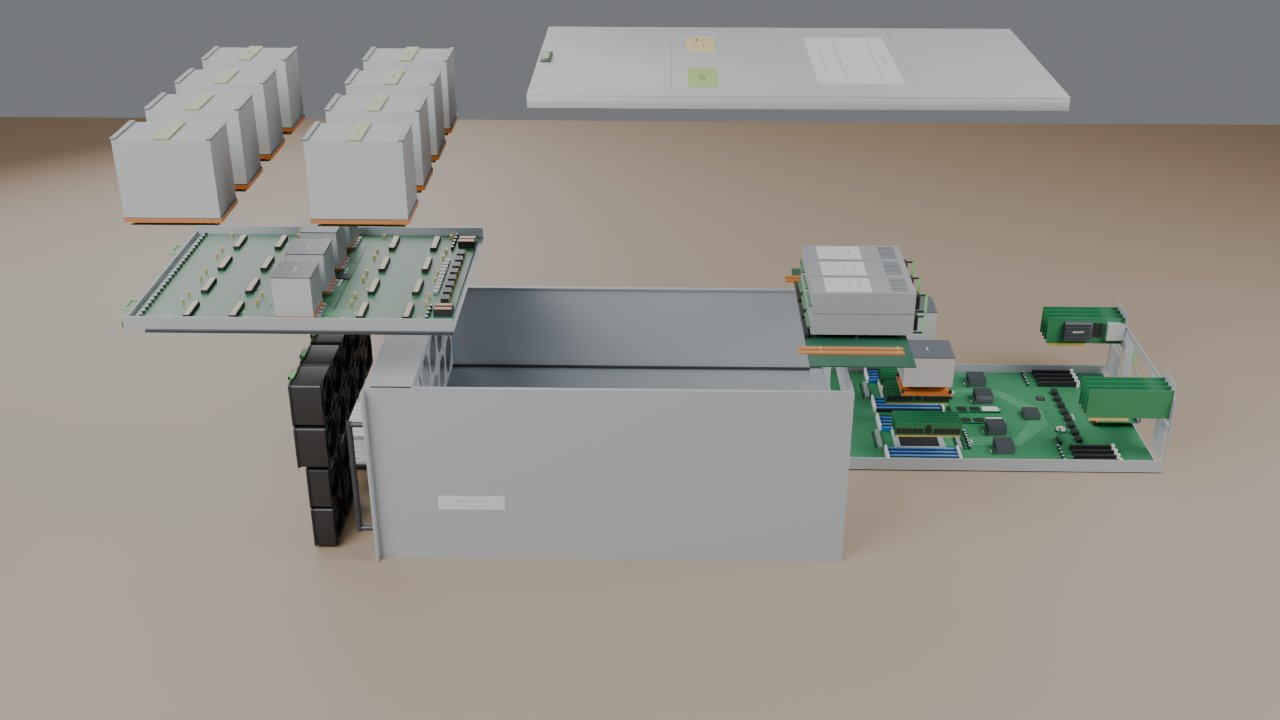
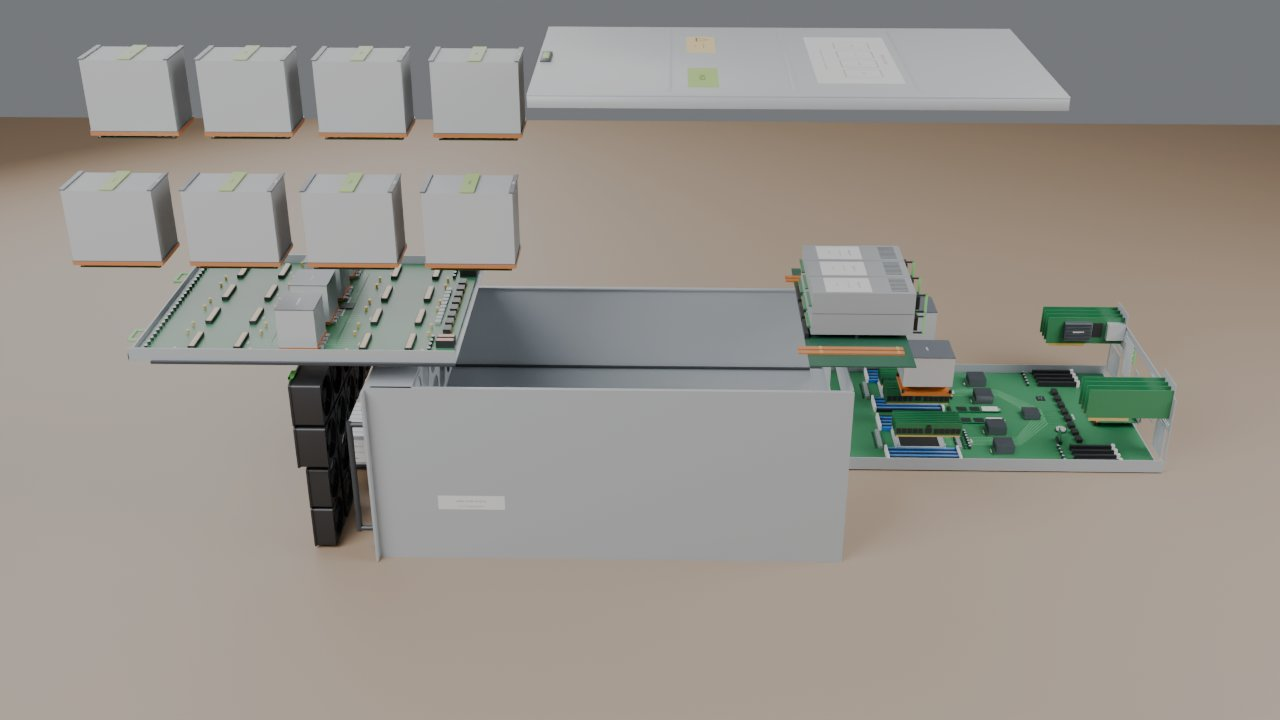
AI server: two-tier GPU display in the README, config text, previews
The re-import audit showed the 8 GPUs as two stacks: their rows of 4 ran
along the player's line of sight. The Blender script (ITBasics #5) now
lays them out as two tiers of 4 across; assets are re-imported next.

Claude-Session: https://claude.ai/code/session_01PHKpeRwAmyHtEZUkLXnPTV

Changed region(s): [[0.0312, 0.0611, 0.4375, 0.55]]

diff --git a/Tools/import_model.py b/Tools/import_model.py
@@ -135,7 +135,7 @@ MODELS = {
         info=dict(
             title='AI 训练服务器 · 8U 八卡 HGX H100 平台（按公开图片原创简化）',
             body='8 × H100 SXM5 · 4 × NVSwitch · 双路 56 核 CPU · 2 TB DDR5 · 8 × 400G 网卡 · 6 × 3000 W 电源（满载约 10 kW）\n'
-                 '装配状态：抓任意位置拿起整台机器看。点 EXPLODE 拆开：GPU 托盘往左上抽出、8 块 GPU 再往上提并分开，主板托盘往右抽出。'
+                 '装配状态：抓任意位置拿起整台机器看。点 EXPLODE 拆开：GPU 托盘往左上抽出、8 块 GPU 再往上提排成前后两层，主板托盘往右抽出。'
                  '按部件拆（一块 GPU、一颗 CPU、一排内存…），每个部件都能单独抓。',
         ),
         named={},
@@ -148,7 +148,7 @@ MODELS = {
         # 实物 8U 机箱深约 85cm，桌上展示 55cm（约 0.6 倍）；拆开后左右各伸出约 60~70cm，在桌子长边范围内
         length_cm=55.0,
         # glb 已经在 Blender 里按部件合并成 24 个节点（每块 GPU、每颗 CPU、每排内存各一个），一个节点一个抓取单元。
-        # 爆炸路线写在 Blender 脚本里：GPU 托盘往前抽 50cm、8 块 GPU 再上提 20cm 并分开；主板托盘往后抽 69cm 再往远处让 32cm（模型单位，未缩放）
+        # 爆炸路线写在 Blender 脚本里：GPU 托盘抬 22cm 往前抽 50cm、8 块 GPU 再上提排成两层（每层 4 块沿长度方向排开）；主板托盘往后抽 69cm 再往远处让 32cm（模型单位，未缩放）
         # 模型 +Y 是前面板（Blender 的 -Y）：风扇在前上方，电源在后上方，硬盘在前下方靠 -X
         check={'P03_GpuFanWall': (0, 1, 1), 'P07_PSUs': (0, -1, 1), 'P05_Drives': (-1, 1, 0)},
     ),

diff --git a/README.md b/README.md
@@ -206,10 +206,10 @@ ITBasics/AI服务器爆炸图/build_ai_server.py ──Blender──▶ ai_serve
 
 - **模型**：8U 风冷 AI 训练服务器（8 卡 HGX H100 平台，按 DGX / HGX 的公开图片原创简化）。Blender 里先按细零件建（180 个：芯片、HBM、供电、散热器……），导出前按"一块 GPU"这一级合并成 **24 个部件**：机箱（含前控制面板，基座）、顶盖、GPU 区风扇墙（10 个风扇）、CPU 区风扇（4 个）、NVMe 硬盘组（8 块 + 背板）、电源组（6 个 + 配电板）、GPU 托盘（HGX 基板 + 4 颗 NVSwitch）、**8 块 GPU 模组**（每块含 SXM5 载板、GPU 芯片、6 颗 HBM3、供电、散热器）、主板托盘（主板 + PCIe 交换芯片、PCH、BMC 等小芯片 + OCP 网卡 + M.2）、2 颗 CPU（连散热器）、4 排 DDR5（每排 8 根）、2 组 400G 网卡（每组 4 张）。细零件的几何还在（拿起一块 GPU 翻过来能看到芯片和 HBM），只是不再单独拆。信息牌讲每个部件在整台机器里干什么，原理速记见 ITBasics 的 `AI服务器爆炸图/README.md`。
 - **展示尺寸 55cm**：`MODELS['AIServer']` 里 `length_cm=55`，实物约 91 cm（含把手），缩放约 0.61 倍。没用 1:1 是因为拆开以后放不下：装配状态 91 × 48 × 36 cm 桌子还放得下，但爆炸后左右要摊开 2 米多、GPU 会升到桌面上方 80 多厘米。CPU 和内存条是同一个缩放的实物尺寸（CPU 封装 77.5 × 56.5 mm，内存条 133.35 × 31.25 mm），内存条本来就比 CPU 长 1.7 倍。
-- **拆机顺序**：掀顶盖（往上再往后，停在电源组上方，不挡 GPU）→ 拔前面的风扇墙、CPU 风扇、硬盘组 → 电源组从后面拔出再抬高 → GPU 托盘先抬高再往前抽出，8 块 GPU 再往上提 20cm（模型单位）、左右分开，两排各 4 块、之间留约 6cm → 主板托盘从后面整个抽出再往远处让，CPU、内存、网卡往上浮。机箱是基座。
-- **桌上的位置**：`ServerMount` Yaw 180，前面板朝左手边、后面朝右手边。爆炸后 GPU 托盘在左边、比机箱高（8 块 GPU 的顶在桌面上方约 53cm），主板托盘在右边贴着桌面，抽出后再往远处让，避开右手边的触屏。
-- **抓取单元**：24 个（机箱是基座），23 个能抓，一个部件一个单元，没有手写覆盖。以前（180 个零件、111 个能抓）拆得太碎，8 块 GPU 的散热器挨得只有约 1cm，看上去像两大块，GPU 本体藏在散热器底下，所以改成按部件合并。想回到细零件版，把 ITBasics 脚本里 `merge_units()` 那一行注释掉再导入。
-- **体量**：24 个静态网格、约 32 万三角面（几何没减，只是合并），`Content/Models/AIServer` 约 15MB。
+- **拆机顺序**：掀顶盖（往上再往后，停在电源组上方，不挡 GPU）→ 拔前面的风扇墙、CPU 风扇、硬盘组 → 电源组从后面拔出再抬高 → GPU 托盘先抬高再往前抽出，8 块 GPU 再往上提、排成"两层看台"：每层 4 块左右一字排开，靠玩家那层低、后面那层高（桌上约高 11cm），站着看过去 8 块都不挡 → 主板托盘从后面整个抽出再往远处让，CPU、内存、网卡往上浮。机箱是基座。
+- **桌上的位置**：`ServerMount` Yaw 180，前面板朝左手边、后面朝右手边。爆炸后 GPU 托盘在左边、比机箱高（后面那层 GPU 的顶在桌面上方约 52cm），主板托盘在右边贴着桌面，抽出后再往远处让，避开右手边的触屏。
+- **抓取单元**：24 个（机箱是基座），23 个能抓，一个部件一个单元，没有手写覆盖。以前（180 个零件、111 个能抓）拆得太碎，8 块 GPU 的散热器挨得只有约 1cm，看上去像两大块，GPU 本体藏在散热器底下，所以改成按部件合并。第一次合并后体检截图里 8 块 GPU 还是叠成两堆：基板上 4 块一排的方向正好顺着玩家视线，光往上提、拉开间距没用，所以改成横过来的两层。想回到细零件版，把 ITBasics 脚本里 `merge_units()` 那一行注释掉再导入。
+- **体量**：24 个静态网格、约 32 万三角面（几何没减，只是合并），`Content/Models/AIServer` 9.5MB（以前 180 个网格 24MB）。
 
 ## 球形漂浮机器人模型从哪来
 
